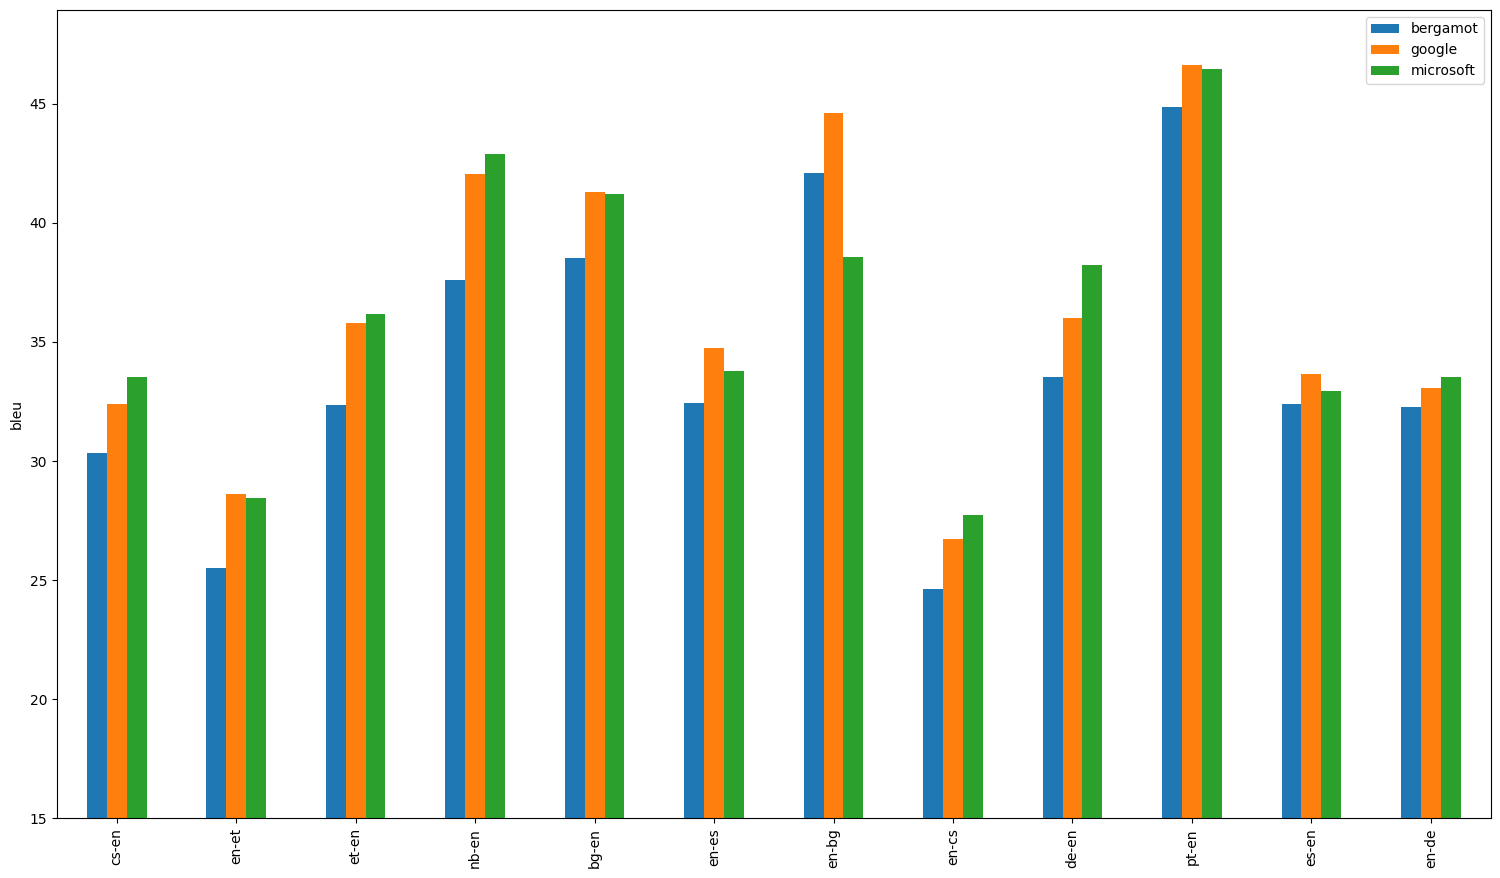
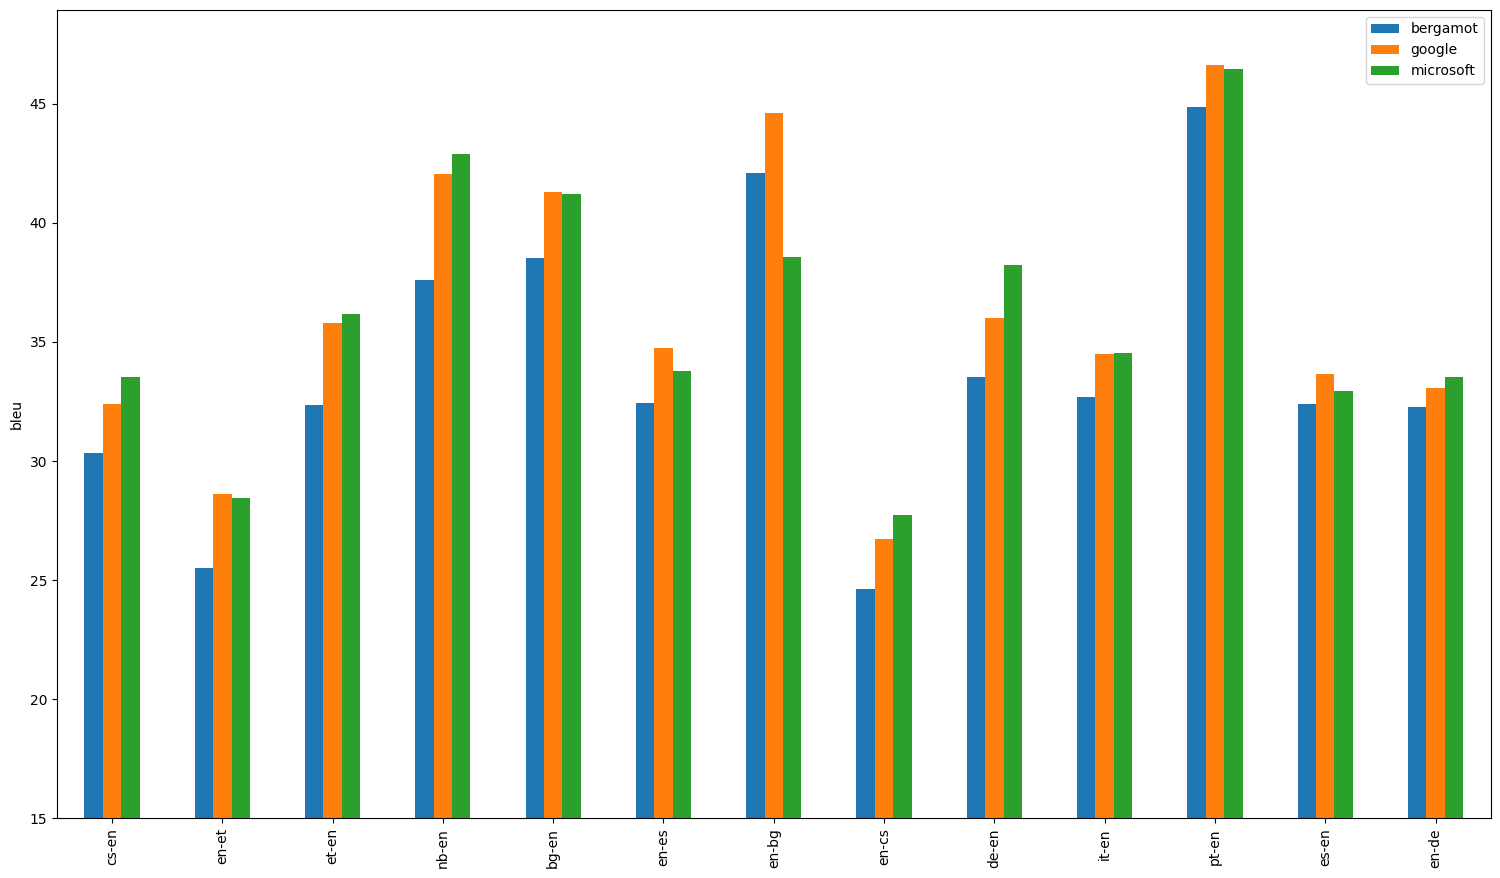
Update Italian -> English (#40)
* Update iten

* Update evaluation results [skip ci]

* Add git pull to ci

* Move iten to prod

* Update evaluation results [skip ci]

* Fix git pull

* Fix readme

* Restart ci

* Update evaluation results [skip ci]

* Update model registry [skip ci]

diff --git a/evaluation/prod/results.md b/evaluation/prod/results.md
@@ -57,11 +57,11 @@ Both absolute and relative differences in BLEU scores between Bergamot and other
 
 ## avg
 
-| Translator/Dataset | cs-en | en-et | et-en | nb-en | bg-en | en-es | en-bg | en-cs | de-en | pt-en | es-en | en-de |
-| --- | --- | --- | --- | --- | --- | --- | --- | --- | --- | --- | --- | --- |
-| bergamot | 30.34 | 25.50 | 32.37 | 37.60 | 38.50 | 32.41 | 42.10 | 24.65 | 33.51 | 44.87 | 32.38 | 32.27 |
-| google | 32.40 (+2.06, +6.80%) | 28.60 (+3.10, +12.16%) | 35.80 (+3.43, +10.61%) | 42.05 (+4.45, +11.84%) | 41.30 (+2.80, +7.27%) | 34.74 (+2.32, +7.17%) | 44.60 (+2.50, +5.94%) | 26.73 (+2.09, +8.47%) | 35.98 (+2.48, +7.39%) | 46.60 (+1.73, +3.86%) | 33.64 (+1.27, +3.91%) | 33.05 (+0.77, +2.40%) |
-| microsoft | 33.53 (+3.19, +10.53%) | 28.47 (+2.97, +11.63%) | 36.17 (+3.80, +11.74%) | 42.90 (+5.30, +14.10%) | 41.20 (+2.70, +7.01%) | 33.76 (+1.35, +4.17%) | 38.55 (-3.55, -8.43%) | 27.75 (+3.11, +12.60%) | 38.21 (+4.70, +14.03%) | 46.47 (+1.60, +3.57%) | 32.93 (+0.56, +1.72%) | 33.54 (+1.27, +3.93%) |
+| Translator/Dataset | cs-en | en-et | et-en | nb-en | bg-en | en-es | en-bg | en-cs | de-en | it-en | pt-en | es-en | en-de |
+| --- | --- | --- | --- | --- | --- | --- | --- | --- | --- | --- | --- | --- | --- |
+| bergamot | 30.34 | 25.50 | 32.37 | 37.60 | 38.50 | 32.41 | 42.10 | 24.65 | 33.51 | 32.67 | 44.87 | 32.38 | 32.27 |
+| google | 32.40 (+2.06, +6.80%) | 28.60 (+3.10, +12.16%) | 35.80 (+3.43, +10.61%) | 42.05 (+4.45, +11.84%) | 41.30 (+2.80, +7.27%) | 34.74 (+2.32, +7.17%) | 44.60 (+2.50, +5.94%) | 26.73 (+2.09, +8.47%) | 35.98 (+2.48, +7.39%) | 34.50 (+1.83, +5.59%) | 46.60 (+1.73, +3.86%) | 33.64 (+1.27, +3.91%) | 33.05 (+0.77, +2.40%) |
+| microsoft | 33.53 (+3.19, +10.53%) | 28.47 (+2.97, +11.63%) | 36.17 (+3.80, +11.74%) | 42.90 (+5.30, +14.10%) | 41.20 (+2.70, +7.01%) | 33.76 (+1.35, +4.17%) | 38.55 (-3.55, -8.43%) | 27.75 (+3.11, +12.60%) | 38.21 (+4.70, +14.03%) | 34.55 (+1.88, +5.74%) | 46.47 (+1.60, +3.57%) | 32.93 (+0.56, +1.72%) | 33.54 (+1.27, +3.93%) |
 
 ![Results](img/avg.png)
 
@@ -154,6 +154,16 @@ Both absolute and relative differences in BLEU scores between Bergamot and other
 | microsoft | 29.40 (+3.40, +13.08%) | 43.80 (+4.80, +12.31%) | 40.80 (+5.80, +16.57%) | 32.50 (+3.90, +13.64%) | 33.40 (+4.40, +15.17%) | 44.90 (+5.30, +13.38%) | 45.80 (+6.70, +17.14%) | 31.30 (+3.70, +13.41%) | 29.20 (+2.90, +11.03%) | 39.20 (+5.70, +17.01%) | 38.10 (+4.60, +13.73%) | 46.30 (+6.70, +16.92%) | 34.30 (+3.50, +11.36%) | 49.60 (+6.30, +14.55%) | 29.10 (+2.70, +10.23%) | 43.60 (+4.80, +12.37%) |
 
 ![Results](img/de-en.png)
+
+## it-en
+
+| Translator/Dataset | mtedx_test | flores-dev | flores-test | wmt09 |
+| --- | --- | --- | --- | --- |
+| bergamot | 35.70 | 31.10 | 30.40 | 33.50 |
+| google | 35.90 (+0.20, +0.56%) | 33.40 (+2.30, +7.40%) | 33.30 (+2.90, +9.54%) | 35.40 (+1.90, +5.67%) |
+| microsoft | 36.40 (+0.70, +1.96%) | 33.30 (+2.20, +7.07%) | 32.70 (+2.30, +7.57%) | 35.80 (+2.30, +6.87%) |
+
+![Results](img/it-en.png)
 
 ## pt-en
 

diff --git a/evaluation/dev/results.md b/evaluation/dev/results.md
@@ -57,11 +57,11 @@ Both absolute and relative differences in BLEU scores between Bergamot and other
 
 ## avg
 
-| Translator/Dataset | en-it | en-pt | ru-en | en-ru | en-fa | fa-en | is-en | it-en |
-| --- | --- | --- | --- | --- | --- | --- | --- | --- |
-| bergamot | 29.53 | 46.55 | 33.37 | 30.47 | 17.30 | 28.70 | 23.50 | 32.30 |
-| google | 29.47 (-0.07, -0.23%) | 56.05 (+9.50, +20.41%) | 36.53 (+3.15, +9.45%) | 33.72 (+3.25, +10.67%) | 27.70 (+10.40, +60.12%) | 36.05 (+7.35, +25.61%) | 34.95 (+11.45, +48.72%) | 34.50 (+2.20, +6.81%) |
-| microsoft | 32.20 (+2.67, +9.03%) | 50.25 (+3.70, +7.95%) | 36.87 (+3.50, +10.49%) | 33.68 (+3.21, +10.53%) | 20.50 (+3.20, +18.50%) | 36.15 (+7.45, +25.96%) | 34.90 (+11.40, +48.51%) | 34.55 (+2.25, +6.97%) |
+| Translator/Dataset | en-it | en-pt | ru-en | en-ru | en-fa | fa-en | is-en |
+| --- | --- | --- | --- | --- | --- | --- | --- |
+| bergamot | 29.53 | 46.55 | 33.37 | 30.47 | 17.30 | 28.70 | 23.50 |
+| google | 29.47 (-0.07, -0.23%) | 56.05 (+9.50, +20.41%) | 36.53 (+3.15, +9.45%) | 33.72 (+3.25, +10.67%) | 27.70 (+10.40, +60.12%) | 36.05 (+7.35, +25.61%) | 34.95 (+11.45, +48.72%) |
+| microsoft | 32.20 (+2.67, +9.03%) | 50.25 (+3.70, +7.95%) | 36.87 (+3.50, +10.49%) | 33.68 (+3.21, +10.53%) | 20.50 (+3.20, +18.50%) | 36.15 (+7.45, +25.96%) | 34.90 (+11.40, +48.51%) |
 
 ![Results](img/avg.png)
 
@@ -134,13 +134,3 @@ Both absolute and relative differences in BLEU scores between Bergamot and other
 | microsoft | 35.10 (+11.50, +48.73%) | 34.70 (+11.30, +48.29%) |
 
 ![Results](img/is-en.png)
-
-## it-en
-
-| Translator/Dataset | mtedx_test | flores-dev | flores-test | wmt09 |
-| --- | --- | --- | --- | --- |
-| bergamot | 35.50 | 30.70 | 29.90 | 33.10 |
-| google | 35.90 (+0.40, +1.13%) | 33.40 (+2.70, +8.79%) | 33.30 (+3.40, +11.37%) | 35.40 (+2.30, +6.95%) |
-| microsoft | 36.40 (+0.90, +2.54%) | 33.30 (+2.60, +8.47%) | 32.70 (+2.80, +9.36%) | 35.80 (+2.70, +8.16%) |
-
-![Results](img/it-en.png)

diff --git a/README.md b/README.md
@@ -7,7 +7,7 @@ The model files are hosted using [Git LFS](https://docs.github.com/en/github/man
 
 [dev](models/dev) - test models under development (can be of low quality or speed). 
 
-When a dev model is tested by humans in the extension and has satisfactory quality, it is moved to prod.
+When a dev model has satisfactory quality, it is moved to prod.
 
 # Automatic quality evaluation
 
@@ -62,10 +62,12 @@ The models will be automatically uploaded to GCS bucket `gs://bergamot-models-sa
 - Czech <-> English
 - Bulgarian <-> English
 - Norwegian Bokmål -> English
+- Portuguese -> English
+- Italian -> English
 ## Dev
 - Russian <-> English
-- Portuguese <-> English
-- Italian <-> English
+- Portuguese <- English
+- Italian <- English
 - Persian (Farsi) <-> English
 - Icelandic -> English
 - Norwegian Nynorsk -> English
